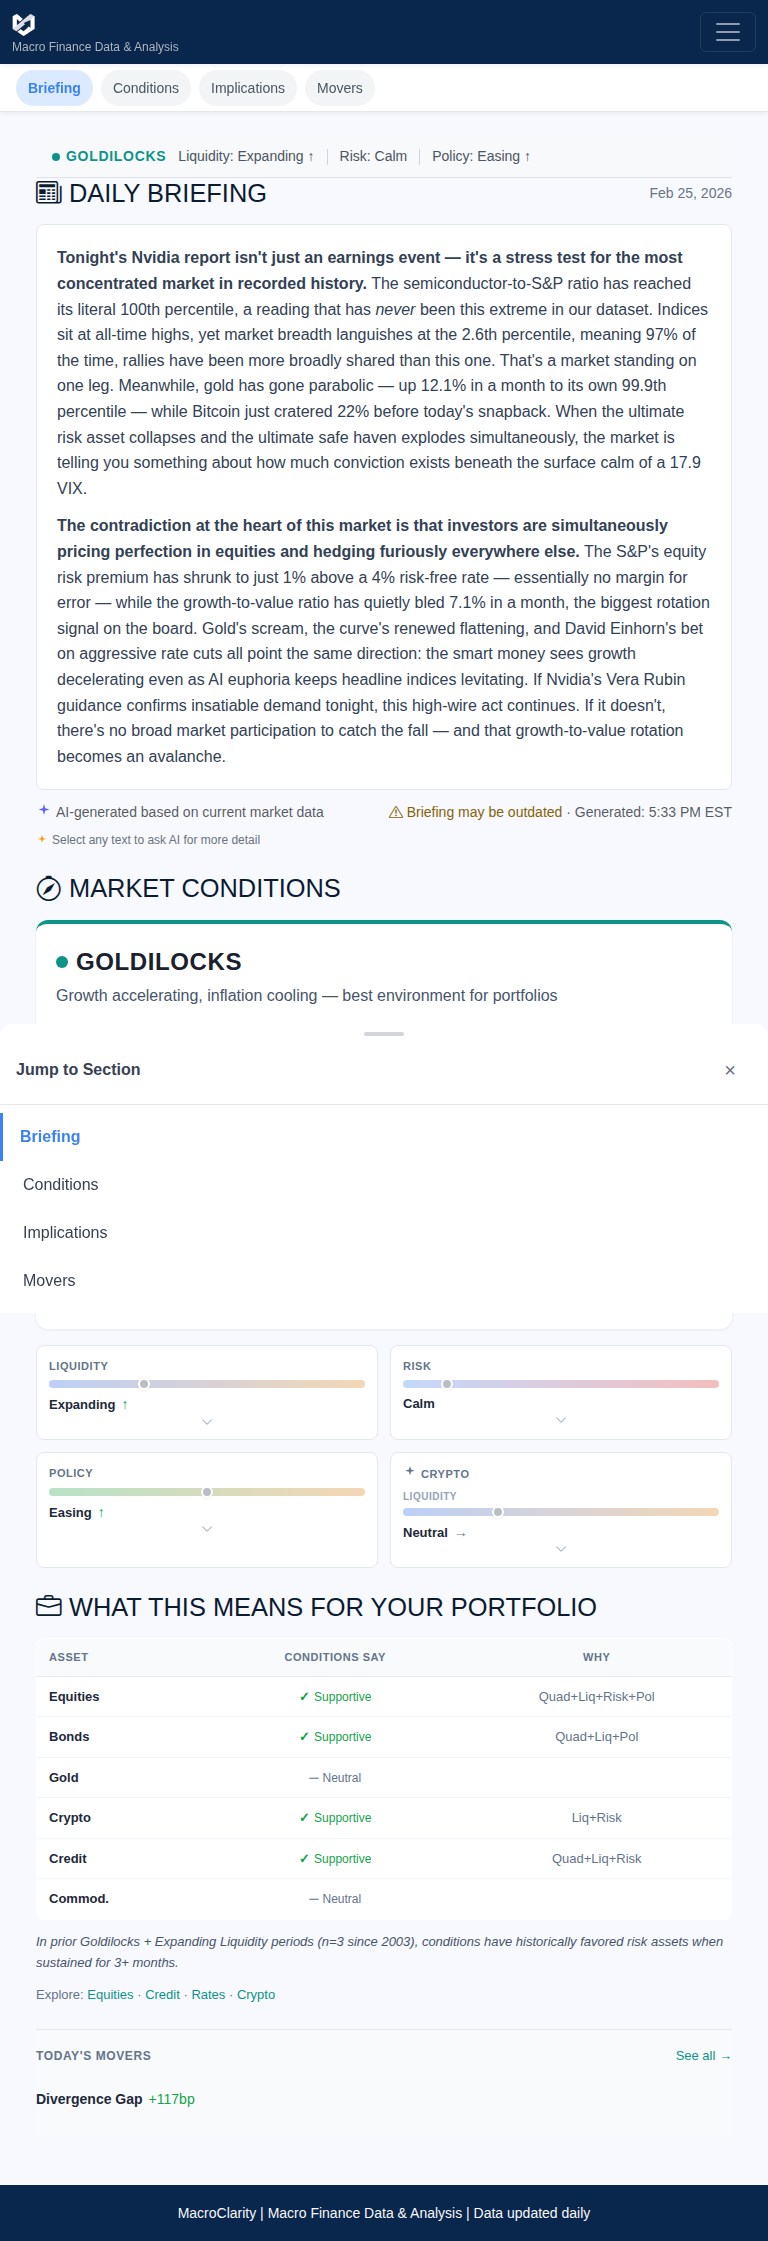
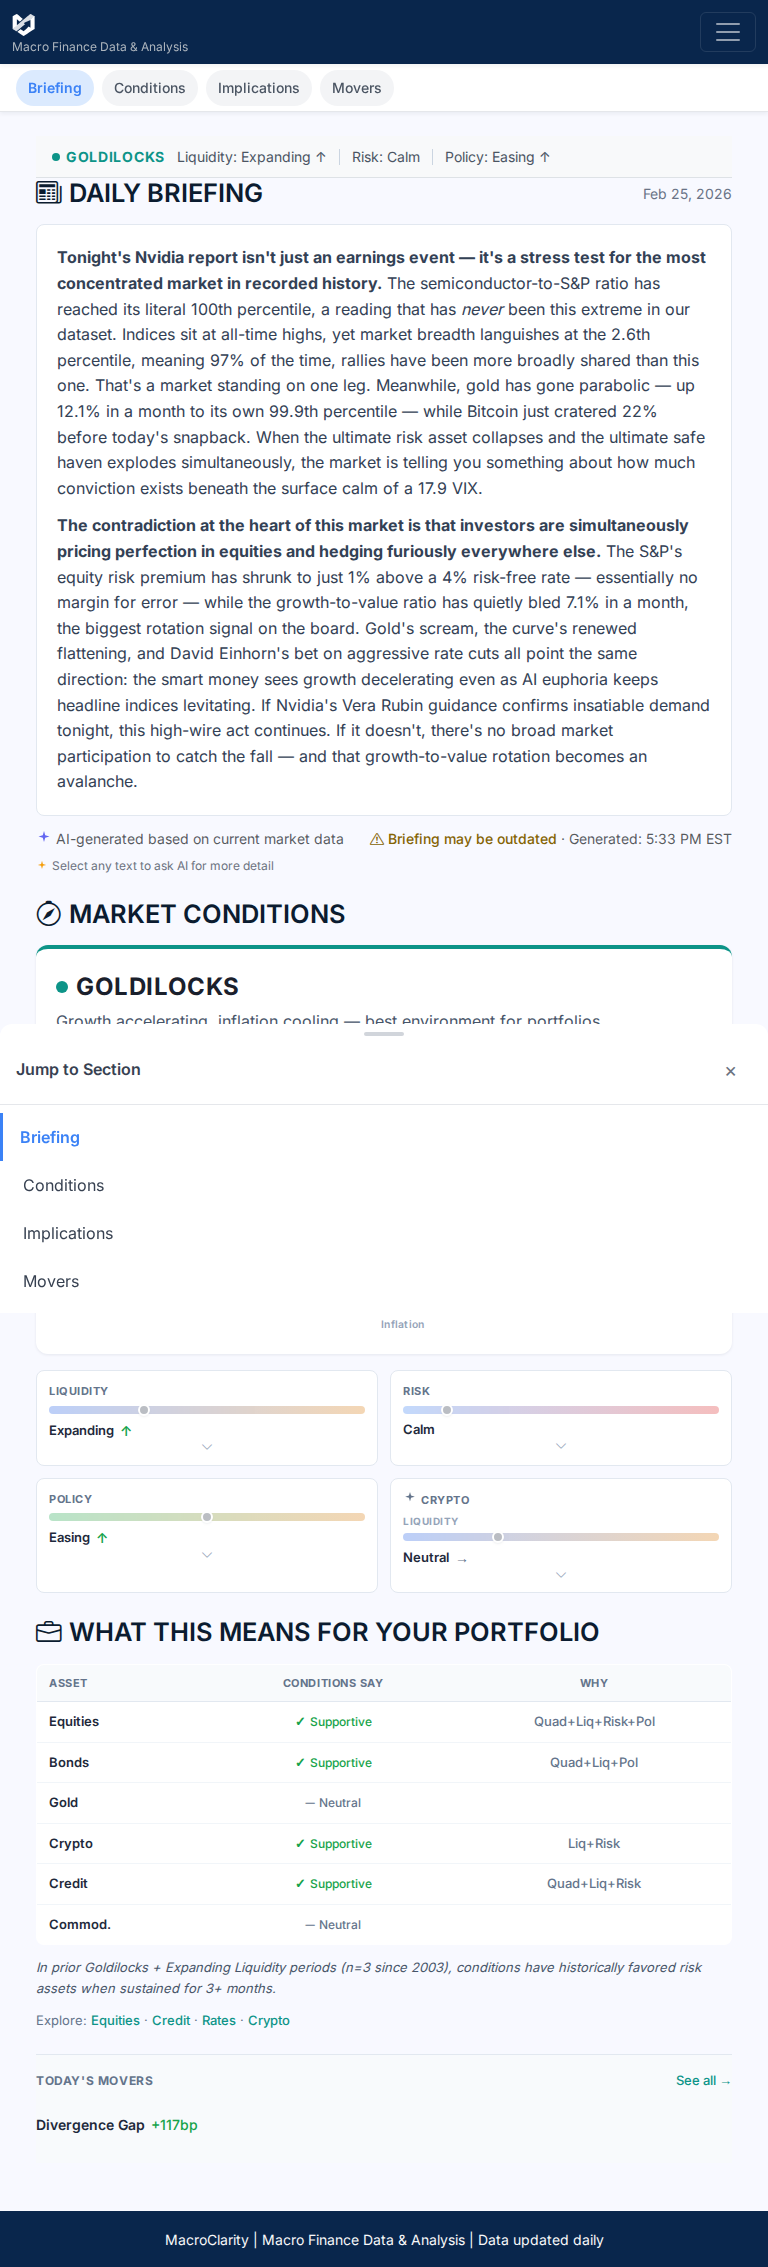
Implement typography serif/sans pairing for MacroClarity rebrand
- H1 page titles use Noto Serif 700 (one serif hero rule)
- H2-H6 use Inter 600 (sans-serif for all other headings)
- Body text uses var(--font-interface) replacing Segoe UI
- Table headers: Inter 500, uppercase, 0.05em letter-spacing
- Add font-variant-numeric: tabular-nums to numeric displays
- Add --font-mono CSS variable to :root
- Update asset-page-header, news-header, property, conditions-summary
- Update screenshots for visual verification

Implements #449 per design spec section 3.

Changed region(s): [[0.0, 0.0, 0.9375, 0.9371], [0.2188, 0.9683, 0.7812, 0.9996], [0.0312, 0.0, 0.125, 0.0312]]

diff --git a/signaltrackers/static/css/dashboard.css b/signaltrackers/static/css/dashboard.css
@@ -13,6 +13,7 @@
     --font-display: 'Noto Serif', Georgia, 'Times New Roman', serif;
     --font-interface: 'Inter', -apple-system, BlinkMacSystemFont, 'Segoe UI',
                       'Roboto', 'Helvetica Neue', Arial, sans-serif;
+    --font-mono: 'SF Mono', 'Monaco', 'Cascadia Code', 'Consolas', 'Courier New', monospace;
 
     /* MacroClarity rebrand — surface tonal hierarchy */
     --surface: #f8f9ff;
@@ -31,9 +32,31 @@
 }
 
 body {
-    font-family: 'Segoe UI', Tahoma, Geneva, Verdana, sans-serif;
+    font-family: var(--font-interface);
     background-color: var(--surface);
     color: var(--on-surface);
+}
+
+/* MacroClarity rebrand — typography: "one serif hero" rule */
+h1 {
+    font-family: var(--font-display);
+    font-weight: 700;
+}
+
+h2, h3, h4, h5, h6 {
+    font-family: var(--font-interface);
+    font-weight: 600;
+}
+
+/* MacroClarity rebrand — tabular-nums for aligned numeric columns */
+.table td,
+.metric-card h2,
+.metric-value,
+.stat-card__value,
+.stat-card__change,
+.crisis-score,
+.percentile-value {
+    font-variant-numeric: tabular-nums;
 }
 
 /* Crisis Score */
@@ -257,7 +280,8 @@ canvas {
 }
 
 .table th {
-    font-weight: 600;
+    font-family: var(--font-interface);
+    font-weight: 500;
     text-transform: uppercase;
     font-size: 0.875rem;
     color: #6c757d;

diff --git a/signaltrackers/static/css/property.css b/signaltrackers/static/css/property.css
@@ -92,8 +92,9 @@
 
 .property-metric-card__value {
     font-size: 2rem;
-    font-family: monospace;
+    font-family: var(--font-mono, monospace);
     font-weight: 600;
+    font-variant-numeric: tabular-nums;
     color: var(--neutral-800, #212529);
     line-height: 1.2;
 }
@@ -162,8 +163,9 @@
 }
 
 .property-farmland-dl__row dd {
-    font-family: monospace;
+    font-family: var(--font-mono, monospace);
     font-weight: 600;
+    font-variant-numeric: tabular-nums;
     font-size: 1.125rem;
     color: var(--neutral-800, #212529);
     margin: 0;

diff --git a/signaltrackers/static/css/components/asset-page-header.css b/signaltrackers/static/css/components/asset-page-header.css
@@ -12,9 +12,10 @@
 }
 
 .asset-page-header__title {
+    font-family: var(--font-display);
     font-size: var(--text-2xl);
     font-weight: 700;
-    color: var(--neutral-800);
+    color: var(--on-surface);
     margin: 0 0 var(--space-2) 0;
     display: flex;
     align-items: center;

diff --git a/signaltrackers/static/css/news.css b/signaltrackers/static/css/news.css
@@ -51,9 +51,10 @@
 }
 
 .news-header__title {
+    font-family: var(--font-display);
     font-size: var(--text-2xl);
     font-weight: 700;
-    color: var(--neutral-800);
+    color: var(--on-surface);
     margin: 0;
     display: flex;
     align-items: center;

diff --git a/signaltrackers/static/css/components/conditions-summary.css b/signaltrackers/static/css/components/conditions-summary.css
@@ -543,6 +543,7 @@ a.dimension-metric-row:hover {
     font-weight: 600;
     color: #1E293B;
     font-family: var(--font-mono, monospace);
+    font-variant-numeric: tabular-nums;
 }
 .dimension-metric-row__arrow {
     font-size: 0.75rem;

diff --git a/signaltrackers/static/css/components/key-stats-panel.css b/signaltrackers/static/css/components/key-stats-panel.css
@@ -88,7 +88,7 @@
   font-weight: 700;
   color: var(--neutral-800);
   font-family: var(--font-mono, monospace);
-  font-feature-settings: 'tnum'; /* Tabular numbers */
+  font-variant-numeric: tabular-nums;
   line-height: 1.2;
 }
 
